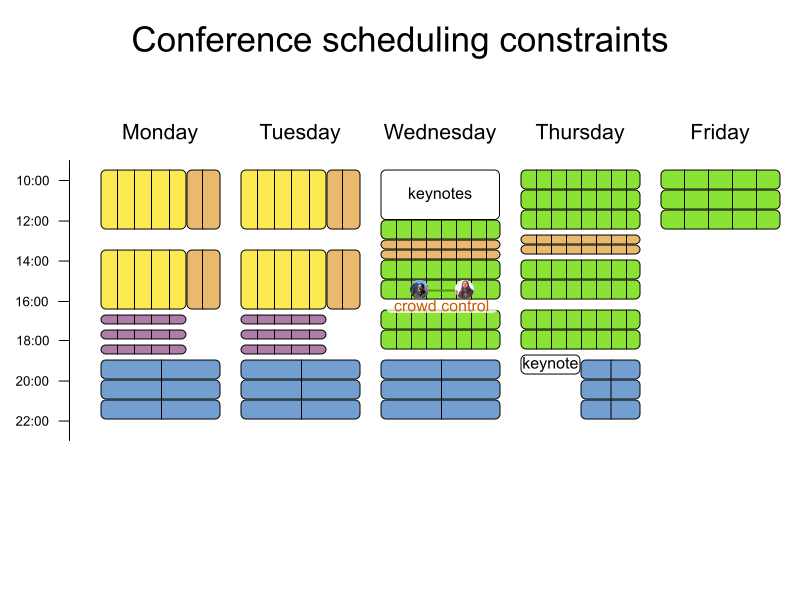
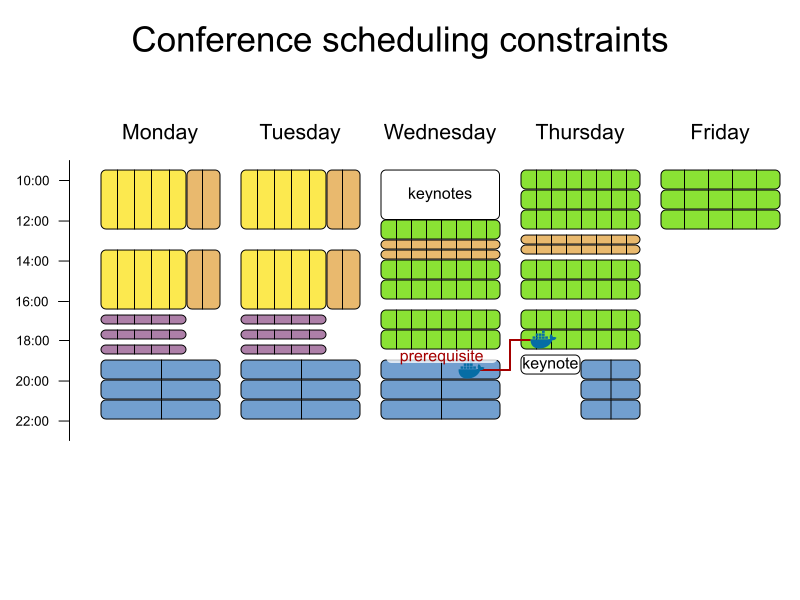
conf scheduling: additional constraints in image

Changed region(s): [[0.4688, 0.45, 0.625, 0.54], [0.5, 0.57, 0.625, 0.63], [0.6562, 0.54, 0.6875, 0.6]]

diff --git a/learn/slides/optaplanner-presentation/index.html b/learn/slides/optaplanner-presentation/index.html
@@ -1003,6 +1003,8 @@ $ <b>mvn clean install -DskipTests</b>
             <img src="UseCasesAndExamples/conferenceSchedulingConstraints_10.png" class="fullImage fragment">
             <img src="UseCasesAndExamples/conferenceSchedulingConstraints_11.png" class="fullImage fragment">
             <img src="UseCasesAndExamples/conferenceSchedulingConstraints_12.png" class="fullImage fragment">
+            <img src="UseCasesAndExamples/conferenceSchedulingConstraints_13.png" class="fullImage fragment">
+            <img src="UseCasesAndExamples/conferenceSchedulingConstraints_14.png" class="fullImage fragment">
         </section>
         <section>
             <img src="UseCasesAndExamples/conferenceSchedulingSearchSpace_0.png" class="fullImage">
